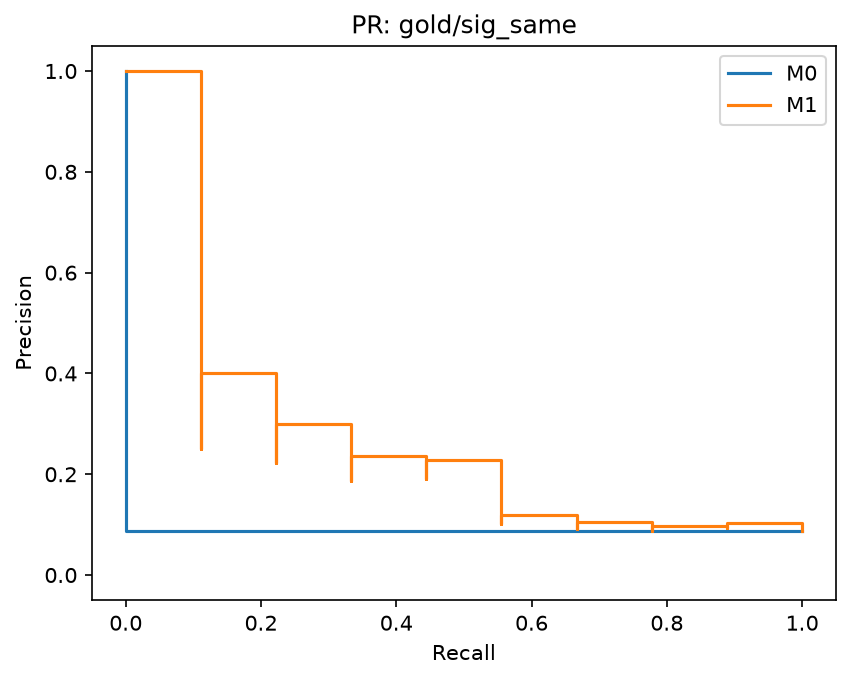
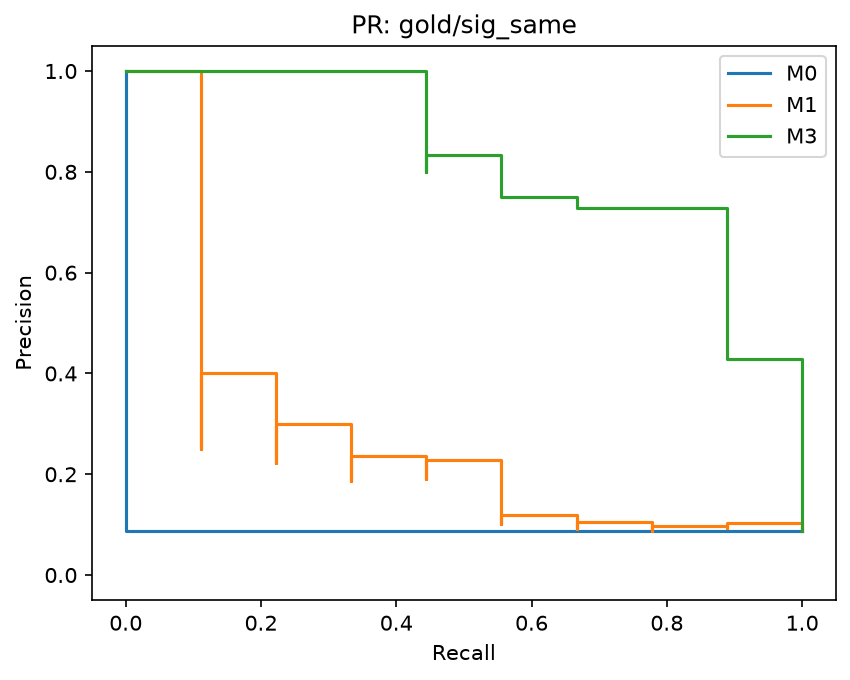
feat(models): M3 — прогон 500/500 и метрики
- Прогон выполнен 20.10.2026: принято 500/500, skip/reject 0, обрезок 0
- Факт по usage.csv: вход 339k / выход 141k = $0.104 ; cache_hit 0; средняя задержка 2.9 с
- Метрики evaluate.py, 1000 бутстрэпов, порог M3 0.5 без val-покрытия: test_real/all PR-AUC 0.886 (M1 0.878, M0 0.763); sig_same 0.667 (M1 0.469); gold/all 0.902 (M1 0.554); drift macro-F1 0.65/0.645
- Оговорки: test_real — сабсет 300 из 2895 (сравнение индикативное); gold/sig_same 9 позитивов — шум; температура — дефолт шлюза (отклонение от R10)
- Обновлены reports/metrics.json, reports/tables/e1.csv, PR-кривые и reports/m3_judge.md — вход для FD-23

Refs: FD-22

diff --git a/docs/data_notes.md b/docs/data_notes.md
@@ -244,5 +244,7 @@
 - **Выбор судьи (зафиксирован сразу):** Gemini 3.8 Flash рассматривался и отклонён — размечал все 200 строк gold-кандидатов (reports/gold_report.md), судить по ним же — петля самооценки; Muse Spark отклонён по той же причине (60 unlabeled + eval-аудит + пилот). Haiku в проекте ранее не использовался (ноль пересечений), от генератора синтетики DeepSeek отличается (R7 соблюдено). AA Intelligence Index: Haiku 5.5 (max) 43 против Gemini-high 41.
 - **Отклонения от R10 (не замолчаны):** `temperature` не отправляется — Go-шлюз отвечает 400 на любое значение, действует дефолт шлюза; `max_tokens=1000` вместо 120 (120 и 500 физически режут валидный JSON, smoke 20.10.2026); effort `max` из AA — сущность агента, в HTTP-контракте его нет.
 - **Отклонение от FD-22 (250 test_real + 250 gold):** в gold всего 200 строк (FD-18 зафиксирован) — взяты весь gold (200) + 300 test_real = 500 строк, seed 22. Список — `reports/tables/m3_select.json` (j00001…j00500 → pair_id). Вход судьи — только `diff_code` + `doc_old`.
-- **Код:** `src/synth/opencode_client.py` (Go-endpoint `https://opencode.ai/inference/go` — без `/go/` тот же ключ даёт 402; кэш, 3 повтора, сессионный заголовок) + `estimate`/`run`/`import-api` в `scripts/m3_judge.py`; конфиг — `config/m3_judge.yaml`; ранбук — `docs/m3_haiku_run.md`; тесты — `tests/test_m3_judge_api.py` (API, без сети) + `tests/test_m3_judge.py` (промпт/разбор/валидаторы).
-- **Статус:** код готов, тесты зелёные; прогон — после получения ключа `OPENCODE_API_KEY` (нужен только для `run`).
+- **Код:** `src/synth/opencode_client.py` (Go-endpoint `https://opencode.ai/inference/go` — без `/go/` тот же ключ даёт 402; кэш, 3 повтора, сессионный заголовок) + `estimate`/`run`/`import-api` в `scripts/m3_judge.py`; конфиг — `config/m3_judge.yaml`; ранбук — `docs/m3_haiku_run.md`; тесты — `tests/test_m3_judge_api.py` (API, без сети) + `tests/test_m3_judge.py` (промпт/разбор/валидаторы), полный сюит 278 passed.
+- **Прогон 20.10.2026:** 500/500 ok, 0 ошибок, skip/reject 0. Факт по usage.csv: вход 339 126 / выход 141 089 токенов = **$0.104** (квота Go $15, запас ×144); cache_hit 0 (заголовок кэш не дал — честно); средняя задержка 2.9 с/запрос.
+- **Метрики (evaluate.py, 1000 бутстрэпов; M3 покрывает только test_real-сабсет 300 и gold 200; порог M3 — 0.5 по умолчанию, val-покрытия нет):** test_real/all PR-AUC **0.886** [0.843,0.923] (M1 0.878, M0 0.763); test_real/sig_same **0.667** [0.561,0.766] (M1 0.469 — M3 видит дрейф без смены сигнатуры); gold/all **0.902** [0.833,0.957] (M1 0.554, M0 0.442); gold/sig_changed 0.940; drift macro-F1 0.650 (gold, acc 0.761) / 0.645 (test_real, acc 0.819). Оговорки: gold/sig_same всего 9 позитивов, CI [0.555,1.000] — разницы в единицы п.п. трактовать как шум (§3 workflow); test_real M3 — сабсет 300 из 2895, сравнение с M0/M1 индикативное; температура — дефолт шлюза (R10-отклонение).
+- **Выходы:** `reports/preds/m3.csv` (500 строк; gitignored), `data/m3_judge/m3_raw.jsonl` + `responses/` + `usage.csv` (gitignored), `reports/m3_judge.md`, обновлённые `reports/metrics.json` / `reports/tables/e1.csv` / PR-кривые (теперь 3 модели) — вход для FD-23.

diff --git a/reports/m3_judge.md b/reports/m3_judge.md
@@ -1,0 +1,22 @@
+# FD-22: нулевой LLM-судья M3 (Claude Haiku 5.5, через API)
+
+- Модель-судья: claude-haiku-5-5 (temperature не отправляется — дефолт шлюза, max_tokens=1000, thinking выкл). Дата импорта: 2026-10-19T17:29:11+00:00.
+- Прогон: одиночные запросы (точный R10, один кейс на запрос), дисковый кэш — повтор ключ не тратит.
+- p_stale_from: confidence (лог-вероятности Messages API не отдаёт, R10 fallback).
+- Фактические токены: вход 339126, выход 141089 (запросов с usage: 500); факт ~$0.104 (тир ≤100K: $0.10/$0.50 за 1M).
+- Генератор синтетики: deepseek-flash — с судьёй не совпадает (R7 соблюдено).
+- Каталог партии: data\m3_judge.
+- Отбор: 300 test_real + весь gold (200) = 500 (отклонение от 250+250: в gold всего 200, список — `reports/tables/m3_select.json`).
+- Файлов: 500; без ответов: 0.
+- Объектов всего: 500; принято: 500; пропущено skip: 0.
+- Доля принятых: 1.0.
+
+## Причины отказов
+
+| reason | n |
+|---|---|
+
+## Оценка
+
+- `python scripts/evaluate.py --pred M0=reports/preds/m0.csv --pred M1=reports/preds/m1.csv --pred M3=reports/preds/m3.csv`
+- Порог для F1 выбирается на реальных строках val и применяется ко всем сплитам; M3 покрывает только test_real+gold, пустые срезы val/test_synth дают nan (протокол R11, без усреднений).
